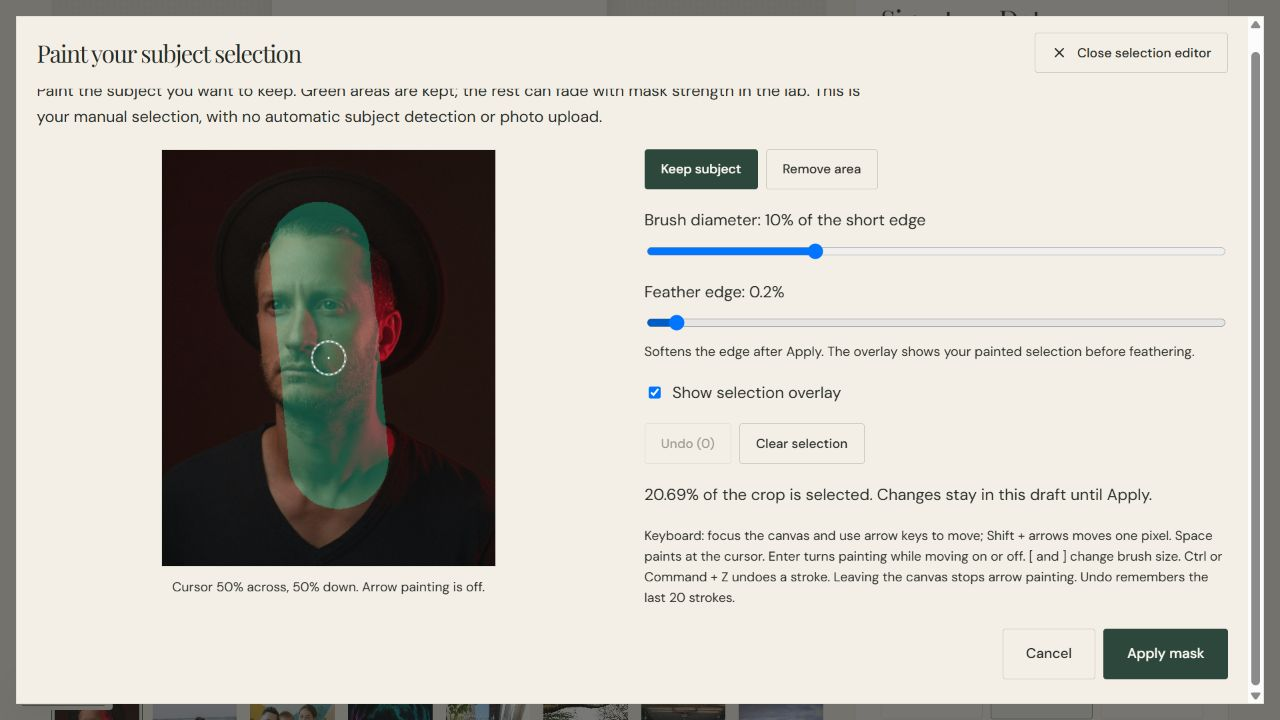
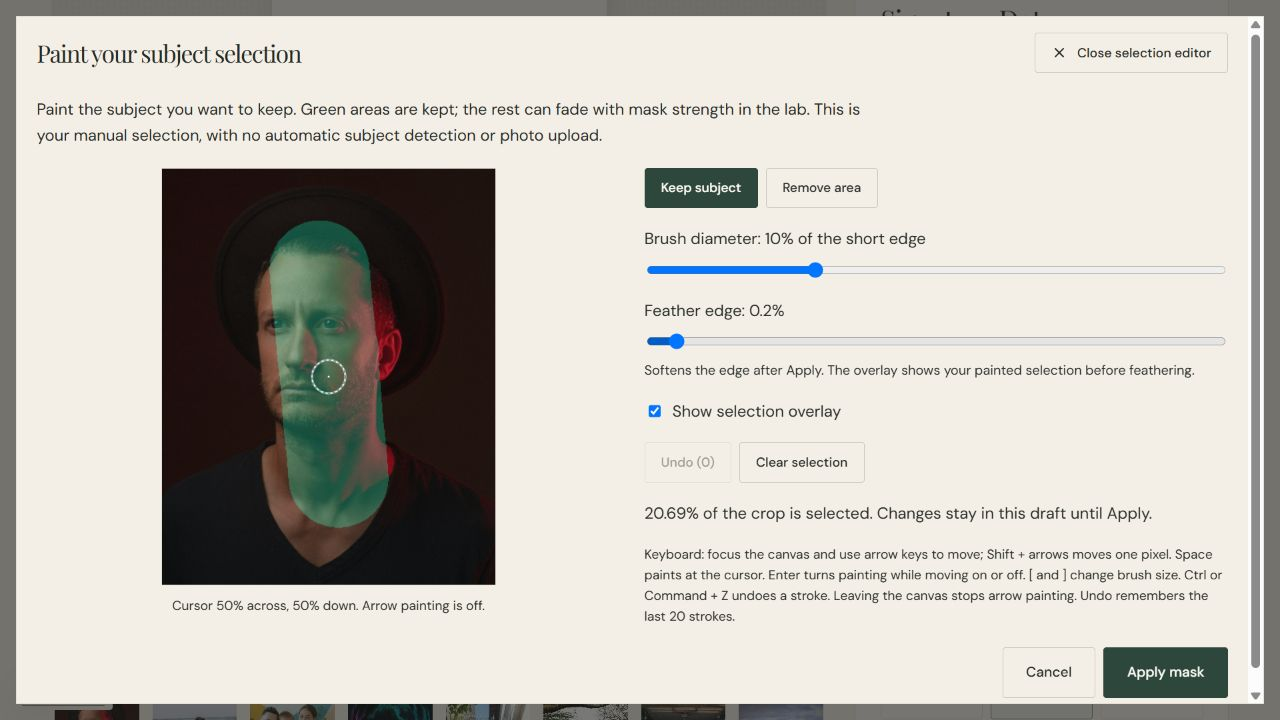
Reset preview dialog scroll when reopening

diff --git a/components/preview-dialog.tsx b/components/preview-dialog.tsx
@@ -24,6 +24,7 @@ export function PreviewDialog({
     if (!open || !dialog) return;
     const overflow = document.body.style.overflow;
     dialog.showModal();
+    dialog.scrollTop = 0;
     document.body.style.overflow = "hidden";
     return () => {
       dialog.close();

diff --git a/docs/VERIFICATION.md b/docs/VERIFICATION.md
@@ -9,7 +9,7 @@ This records software checks for the prototype and its follow-up workflow improv
 - Server tests exercise real private local assets and production ZIP generation: authoritative catalogue/source binding, capability-only inline restoration, proof hashes that change even for visually equivalent zero-strength masks, revision-owned copies, immutable originals, required customer reproof on removal/strength changes, replacement reset, concurrent update cleanup, shared-owner retention and preset/analytics exclusion. No live payment or email service was called.
 - The in-app browser exercised keep painting through both keyboard and pointer, continuous strokes, undo, feathering, Apply, draft Clear followed by Cancel, and Escape focus restoration. On the licensed portrait fixture, the applied manual selection rendered 2,319 dots; strength zero restored 11,460 dots. Local save/restore retained 2,319, strength one and the composition lock. Crop/rotation, canvas size/orientation and other modes were disabled until clear; loading another reference removed the old selection.
 - The actual customer flow restored the local selection, reviewed current size/finish and transferred it to the basket. A private design was saved to the ignored local adapter using the licensed reference photo. Finished and template server proofs loaded; proof acceptance remained disabled until both views had loaded. Opening the private guest design and continuing into the studio restored the same selected artwork, strength and current renderer version. Checkout remained disabled. This did not create a paid order or verify remote providers.
-- The native selection dialog was inspected at desktop and 390 x 844 widths. Mobile page width was 390 px; dialog content and client widths both measured 341 px, with vertical scrolling and no horizontal overflow. Escape restored focus to Edit subject selection. No browser console warnings/errors were observed. [Desktop selection editor](manual-subject-selection-desktop.png) and [mobile selection editor](manual-subject-selection-mobile.png) show a manually painted test region, not a recommended artistic selection or a completed kit.
+- The native selection dialog was inspected at desktop and 390 x 844 widths. Mobile page width was 390 px; dialog content and client widths both measured 341 px, with vertical scrolling and no horizontal overflow. Escape restored focus to Edit subject selection. Reopening now resets dialog scroll to zero so the instructions start in view; a scrolled close/reopen was checked in the browser. No browser console warnings/errors were observed. [Desktop selection editor](manual-subject-selection-desktop.png) and [mobile selection editor](manual-subject-selection-mobile.png) show a manually painted test region, not a recommended artistic selection or a completed kit.
 - Marketing, guide, social and eight-photo benchmark artifacts were regenerated for renderer 1.2.0. Independent checks verified 79 source/output manifest checks; 59 existing raster assets and all eight stored primitive snapshots were unchanged. The eight single Node render measurements ranged from 112.4 to 152.4 ms under concurrent regeneration load; this is not a warm-browser median/p95 or mobile performance claim. Minimum benchmark dot gap remains 0.4 mm. Representative masked-photo usability/recognition trials have not been run.
[1 lines of base64/hex data omitted]
 - Independent core/server/client reviews found no material integration defect. Automatic semantic segmentation, real-device/screen-reader usability, remote storage/auth/RLS/payment/mail checks, normal-browser download completion and all physical/business/legal gates remain open. The admin mask-removal workflow is covered by server tests and client review; it was not separately exercised through the operator UI in this pass.
